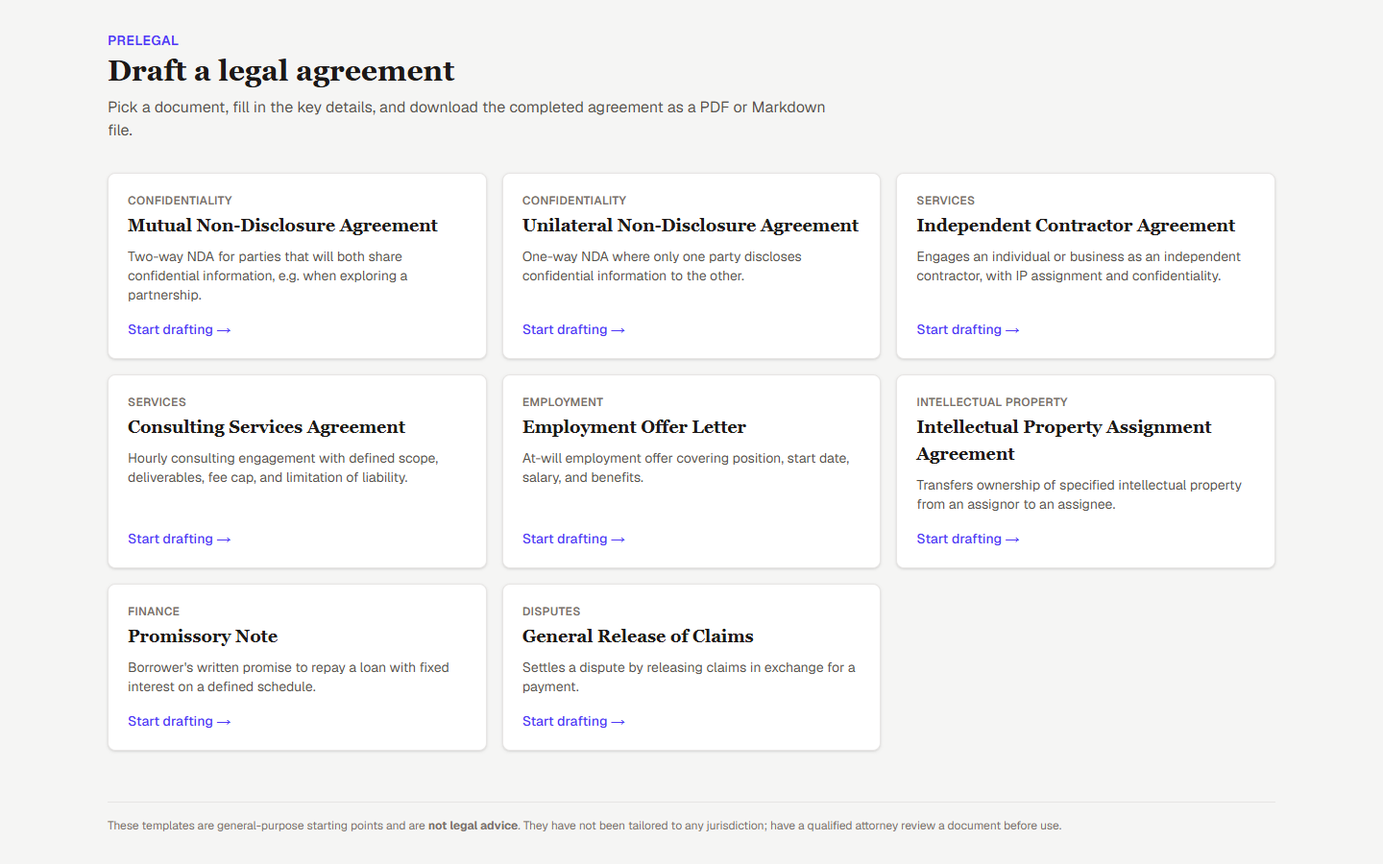
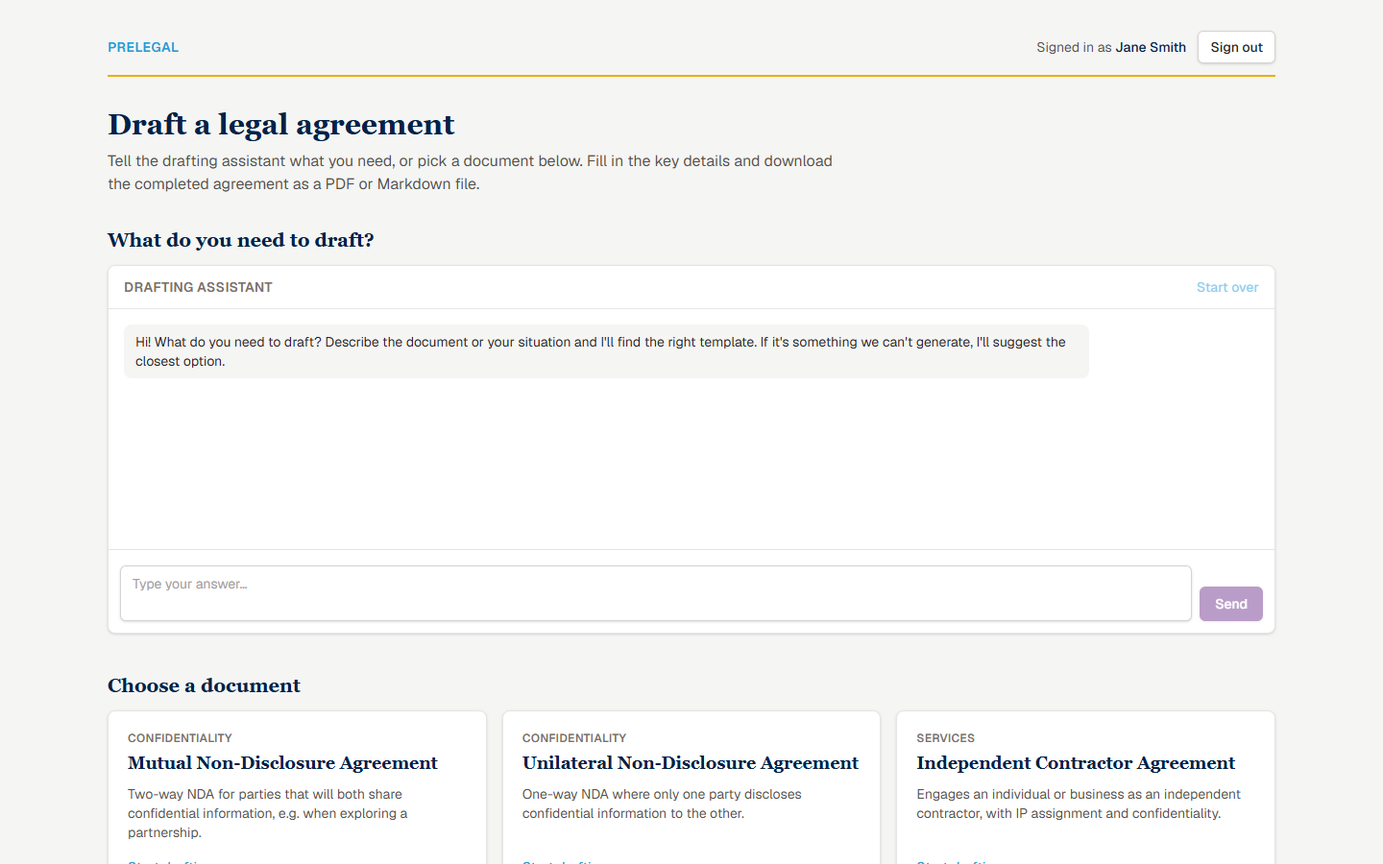
PL-8: Review fixes verified and documentation
- Docs: README (AI chat for every template, home chat, switching, new
  /api/chat contract, PRELEGAL_CHAT_BUDGET_S, new home screenshot),
  frontend/README (handoff flow, HomeChat, chat.ts API), CLAUDE.md
  (Completed (PL-8), endpoints, env vars, latest update, next steps)
- docs/screenshots/01-home.png retaken with the home chat

The previous commit (marked WIP) holds the PL-8 code and the review
fixes: budget-aware retries in chat._ask, fromHome kept in storage,
previous document saved with the AI's answer on a switch, home-chat
hint when there is no form, shared useChatAvailability, chat_budget_s
validated below 60 s, prompt helpers and an explicit Entry.

diff --git a/CLAUDE.md b/CLAUDE.md
@@ -3,12 +3,12 @@
 ## Overview
 
 This is a SaaS product to allow users to draft legal agreements based on templates.
-The user can carry out AI chat in order to establish what document they want and how to fill in the fields. Today the AI chat fills in the Mutual NDA (PL-7); the other templates use a form, and choosing the document type by chat comes with PL-8.
+The user can carry out AI chat in order to establish what document they want and how to fill in the fields. The home page chat picks the document, or explains it can't be generated and offers the closest one. Each template page's chat fills that document in and can switch to another one (PL-7, PL-8). The form is the fallback.
 The target document set is the CommonPaper catalog in the root `catalog.json`, included here:
 
 @catalog.json
 
-The current implementation is the V1 technical foundation (PL-6) plus AI chat for the Mutual NDA (PL-7): a creator for the templates in `data/templates/catalog.json` (Next.js static export) served by a FastAPI backend with a temporary SQLite database, packaged in Docker, behind a fake sign-in. The Mutual NDA is filled in by chatting with an AI assistant (OpenAI via LiteLLM); the other templates use a form. There is no real authentication yet — see Implementation Status below.
+The current implementation is the V1 technical foundation (PL-6) plus AI chat for every template (PL-7, PL-8): a creator for the 8 templates in `data/templates/catalog.json` (Next.js static export) served by a FastAPI backend with a temporary SQLite database, packaged in Docker, behind a fake sign-in. Documents are chosen and filled in by chatting with an AI assistant (OpenAI via LiteLLM); without a backend the form takes over. There is no real authentication yet — see Implementation Status below.
 
 Note: the CommonPaper template files listed in the root `catalog.json` (e.g. `Mutual-NDA.md`) are not in the repo yet. The app uses its own dataset in `data/templates/` (8 templates with its own `catalog.json` and `catalog.schema.json`); the frontend reads it at build time.
 
@@ -42,14 +42,15 @@ OPENAI_API_KEY=your_openai_api_key
 OPENAI_MODEL=gpt-4.1-mini
 ```
 
-The start scripts pass `.env` to the container at run time (`--env-file`); it is excluded from the Docker build context and never baked into the image. `backend/app/llm.py` reads `OPENAI_MODEL` at call time; LiteLLM reads `OPENAI_API_KEY`. Without a key the chat returns `llm_not_configured` and the UI offers the form. For a local backend outside Docker, load the file with `uv run --env-file ../.env ...`.
+The start scripts pass `.env` to the container at run time (`--env-file`); it is excluded from the Docker build context and never baked into the image. `backend/app/llm.py` reads `OPENAI_MODEL` at call time; LiteLLM reads `OPENAI_API_KEY`. Without a key the chat returns `llm_not_configured`: a template page offers the form, the home chat points to the list of documents. For a local backend outside Docker, load the file with `uv run --env-file ../.env ...`.
 
 Optional backend/script variables (defaults are fine for Docker):
 - `PRELEGAL_PORT` - host port used by the start scripts (default `8000`)
 - `PRELEGAL_DB_PATH` - SQLite file (default `prelegal.db`; `/tmp/prelegal.db` in the container)
 - `PRELEGAL_STATIC_DIR` - frontend export served at `/` (unset = API only; `/app/static` in the container)
 - `PRELEGAL_TEMPLATES_DIR` - template catalog the chat builds its prompt and schema from (default: repo `data/templates`; `/app/data/templates` in the container)
-- `PRELEGAL_LLM_TIMEOUT_S`, `PRELEGAL_LLM_MAX_RETRIES` - per-attempt timeout (default `20`) and OpenAI client retries (default `1`)
+- `PRELEGAL_LLM_TIMEOUT_S`, `PRELEGAL_LLM_MAX_RETRIES` - per-attempt timeout (default `20`) and retries after a failed attempt (default `1`; the chat retries itself within its budget, the OpenAI client doesn't)
+- `PRELEGAL_CHAT_BUDGET_S` - total time for one `/api/chat` request, which may make two LLM calls (default `50`; must be below the frontend's 60 s timeout, enforced by validation)
 - `LITELLM_LOCAL_MODEL_COST_MAP` - `True` (set in `llm.py` and the image) so LiteLLM doesn't fetch its model map at import
 
 ## Technical design
@@ -113,11 +114,11 @@ Ticket numbers match the PL project in Jira.
 - Fake sign-in: `/login/` (name + email, no password) → `POST /api/session` upserts the user; the frontend keeps the user in `localStorage` (`useSession` via `useSyncExternalStore`); app pages are in the `(app)` route group behind client-side `RequireSession`; header shows the user and Sign out. Without a backend (Vercel, `npm run dev`) sign-in is device-only
 - Palette applied as Tailwind tokens `brand-yellow`, `brand-blue`, `brand-purple`, `brand-navy`, `brand-gray`
 - Start/stop scripts: `start-unix.sh`/`stop-unix.sh` hold the logic, mac/linux scripts wrap them; Windows `.ps1`; `PRELEGAL_PORT` overrides port 8000
-- Tests: pytest (`cd backend && uv run pytest`) for API, DB reset, concurrent sign-ins and static serving; Vitest (`cd frontend && npm test`) for `fill-template.ts`, `api-client.ts` and `session.ts` (30 and 53 tests at PL-6; current totals under PL-7)
+- Tests: pytest (`cd backend && uv run pytest`) for API, DB reset, concurrent sign-ins and static serving; Vitest (`cd frontend && npm test`) for `fill-template.ts`, `api-client.ts` and `session.ts` (30 and 53 tests at PL-6; current totals under PL-8)
 
 ### Completed (PL-7) — Add AI Chat but still just Mutual NDA
 - **Endpoint:** `POST /api/chat` is stateless. The client sends `{template_id, messages, values}` and gets `{reply, values, complete}`.
-  - Only `mutual-nda` is supported (`CHAT_TEMPLATE_IDS` in `backend/app/chat.py` and `frontend/src/lib/chat.ts`).
+  - At PL-7 only `mutual-nda` was supported (a `CHAT_TEMPLATE_IDS` gate, removed in PL-8).
 - **Backend modules:**
   - `templates.py` loads `catalog.json`.
   - `llm.py` holds `LiteLlmClient`: `completion(model=openai/<OPENAI_MODEL>, response_format=<Pydantic>, timeout, max_retries)`, then `model_validate_json`.
@@ -140,7 +141,42 @@ Ticket numbers match the PL project in Jira.
 - **Tests:** pytest 103 (chat schema and strict-mode compatibility, normalisation, prompt, LLM error mapping, `/api/chat`); Vitest 89 (`chat.ts`, `api-client.ts`).
 - **Verified:** a browser end-to-end run with real OpenAI completes the NDA in two messages.
 
-### To do (PL-8) — Expand to all supported legal document types
+### Completed (PL-8) — Expand to all supported legal document types
+- **Scope:** all 8 templates in `data/templates`. Importing the CommonPaper templates in the root `catalog.json` would be a separate ticket: their cover pages are DOCX-only, they use HTML spans, and they are up to 45 KB.
+- **Endpoint:** `POST /api/chat` takes `{template_id?, messages, values}` and returns `{reply, template_id, values, complete}`.
+  - With no `template_id`, the request is a selection turn.
+  - A response `template_id` that differs from the request's means the AI chose or switched documents, and the client opens that page.
+  - An unknown non-null id returns 404 `unknown_template`.
+- **`chat.py`, two kinds of structured-output turn:**
+  - **Selection:** `selection_model` with `template_id: Literal[ids] | None`. Unsupported requests get an explanation and the closest document (or the list), and `template_id` stays null until the user agrees.
+  - **Drafting:** `turn_model(template, switch_ids)` adds `switch_to: Literal[other ids] | None`, set only after the user confirms.
+  - When a document is chosen or switched to, `_enter` runs its first drafting turn in the same request. Defaults are seeded and same-key valid values are carried over; on a switch the previous values go to the model as JSON data so it can map roles. Only one switch per request.
+  - If `_enter` fails or less than 8 s is left, the user still lands on the document with a fixed reply.
+- **Generic prompt:**
+  - party roles come from field prefixes (`party_roles`, mirrors `groupFields`);
+  - each field shows where its value lands (`FieldDef.usage`, derived from the template body by `templates.field_usages`, e.g. 'a ___ with its principal address at');
+  - format hints for money and percent;
+  - select options are an enum in the schema.
+- **Normalisation:** select values map case-insensitively to the canonical option, percent becomes `5%`, and money must contain a digit.
+- **Time budget:** `Budget` splits `chat_budget_s` (50 s) between calls and attempts. `_ask` retries retryable failures itself (the OpenAI client gets `max_retries=0`), so a provider `Retry-After` can't outlast the client's 60 s.
+- **Frontend:**
+  - `HomeChat.tsx`: the home chat, hidden without a backend.
+  - `ChatPanel`: `templateId: string | null` and `onNavigate`; it stays "Thinking…" until the page changes.
+  - `DocumentBuilder`: chat on every template; `openDocument` on a switch saves the AI's answer to the old document too.
+  - `lib/chat.ts`: `planHandoff` (pure), `HOME_CHAT` storage target, and `fromHome`, which keeps the home greeting.
+  - `useChatAvailability`: the shared `/api/health` probe.
+  - The template page renders `<DocumentBuilder key={template.id}>`.
+- **Tests:**
+  - pytest 186: strict schemas for every template, selection, entering, switching, fallbacks, retries within the budget, normalisation, prompts, usages, config validation.
+  - Vitest 94: handoff, storage, home chat client.
+- **Verified with real OpenAI (gpt-4.1-mini)** in browser end-to-end runs:
+  - "lease" is explained on the home page;
+  - a loan request opens the Promissory Note with $5,000 / 4% / the lender filled in;
+  - the note is complete after one more message;
+  - switching to a General Release asks for confirmation first, then carries over the governing law;
+  - the home greeting survives a reload;
+  - the PL-7 NDA flow still works;
+  - the no-backend fallback works.
 
 ### To do (PL-9) — Support multiple users & final polish
 - Real sign up / sign in (users table) and per-user documents
@@ -150,13 +186,14 @@ Ticket numbers match the PL project in Jira.
 ### API Endpoints
 - `GET /api/health` - Health check
 - `POST /api/session` - Fake sign-in: upserts `{name, email}` into `users` and returns `{id, name, email}` (no authentication)
-- `POST /api/chat` - One AI chat turn (Mutual NDA only): `{template_id, messages, values}` → `{reply, values, complete}`; errors `{"detail": {code, message, retryable}}` (no auth or rate limit until PL-9)
+- `POST /api/chat` - One AI chat turn: `{template_id?, messages, values}` → `{reply, template_id, values, complete}`. Omit `template_id` to let the AI choose the document; a different response `template_id` means chosen or switched. Errors are `{"detail": {code, message, retryable}}` (no auth or rate limit until PL-9)
 - `GET /api/docs`, `GET /api/openapi.json` - API docs
 
 ## Latest update (2026-11-24)
 
 - **PL-6 done**: merged in PR #9 (`bae9788`); Jira status Listo.
 - **PL-7 done**: AI chat for the Mutual NDA (see Completed (PL-7)), merged to `main` in PR #11 (`1cc1142`); Jira status Listo. The CLAUDE.md update from PR #10 was merged with it. Branches `feature/PL-7-ai-chat-mutual-nda` and `docs/claude-md-status` are kept.
+- **PL-8 implemented** on `feature/PL-8-all-document-types` (see Completed (PL-8)); PR pending merge.
 - **Verified for PL-7**:
   - backend and frontend tests, lint, type-check and builds pass;
   - the Docker image runs healthy as a non-root user;
@@ -170,4 +207,6 @@ Ticket numbers match the PL project in Jira.
   - Locally, port 8000 is often taken by another container (`pm-mvp-api`); use `PRELEGAL_PORT=8001`.
   - pytest prints a Starlette deprecation warning about `httpx`; the fix is to switch the dev dependency to `httpx2`.
   - `/api/chat` is unauthenticated (PL-9).
-- **Next**: PL-8 (all document types via chat). Add a per-template chat flag or open `CHAT_TEMPLATE_IDS`, and let the AI choose the template. Known follow-ups from the PL-7 review, left for later: values the AI sends that are too long are dropped without telling the model, and `CHAT_TEMPLATE_IDS` is listed in both the backend and the frontend.
+- **Next**: PL-9 (real accounts and saved documents per user; also put auth and a rate limit on `/api/chat`). Known follow-ups:
+  - values the AI sends that are too long are dropped without telling the model;
+  - the README screenshots other than the home page still show the form on the static site.

diff --git a/frontend/README.md b/frontend/README.md
@@ -1,13 +1,13 @@
 # PreLegal frontend
 
-Next.js app for PreLegal: a **document creator for every template in the catalog** (PL-3, PL-4). The user picks a template, fills it in, sees a live preview of the agreement with their details filled in, and downloads the completed document as **PDF** or **Markdown**. The Mutual NDA is filled in through a chat with an **AI drafting assistant** (PL-7); the other templates use a form.
+Next.js app for PreLegal: a **document creator for every template in the catalog** (PL-3, PL-4). The user picks a template, fills it in, sees a live preview of the agreement with their details filled in, and downloads the completed document as **PDF** or **Markdown**. Every template is filled in through a chat with an **AI drafting assistant** (PL-7, PL-8), which can also pick the document from the home page; the form is the fallback.
 
 It is built as a **static export** (`output: "export"` in `next.config.ts`): `npm run build` writes plain HTML/JS to `out/`, which the FastAPI backend serves at <http://localhost:8000> (PL-6) and Vercel hosts as a static site.
 
 | Route | Page |
 | --- | --- |
 | `/login/` | Sign-in screen (fake sign-in: name + email, no password) |
-| `/` | List of all templates in `data/templates/catalog.json` (signed-in users) |
+| `/` | The home chat ("What do you need to draft?", when a backend answers) and the list of all templates in `data/templates/catalog.json` (signed-in users) |
 | `/templates/<id>/` | Creator for one template, e.g. `/templates/mutual-nda/` (signed-in users) |
 
 URLs end in `/` (`trailingSlash: true`), so each page is exported as `route/index.html`; paths without the slash redirect.
@@ -22,7 +22,7 @@ npm install
 npm run dev     # http://localhost:3000
 ```
 
-Without the backend, sign-in still works but is kept on this device only, and the Mutual NDA shows the form instead of the AI chat (see below).
+Without the backend, sign-in still works but is kept on this device only, the home page shows only the list of templates, and every template shows the form instead of the AI chat (see below).
 
 | Script | Purpose |
 | --- | --- |
@@ -40,28 +40,30 @@ Without the backend, sign-in still works but is kept on this device only, and th
   - `textarea` values (scope, deliverables, schedules) keep their line breaks; other multi-line values (addresses) are joined with commas;
   - dates are formatted as e.g. "November 23, 2026"; integer fields must be whole numbers ≥ 0;
   - blank or invalid fields render as highlighted labels in the preview.
-- **UI** (`src/components/DocumentBuilder.tsx`) owns the field values, picks the editor (`ChatPanel` for the AI chat, `FormEditor` for the form) and re-renders the preview with `react-markdown` + `remark-gfm` + `remark-breaks` (so line-by-line blocks like addresses and signature lines render as written).
+- **UI** (`src/components/DocumentBuilder.tsx`) owns the field values, picks the editor (`ChatPanel` for the AI chat, `FormEditor` for the form), hands the conversation over when the AI switches documents, and re-renders the preview with `react-markdown` + `remark-gfm` + `remark-breaks` (so line-by-line blocks like addresses and signature lines render as written).
 - **Downloads** are enabled once every field is complete and valid:
   - *Markdown*: the filled document as a `.md` file.
   - *PDF*: opens the browser's print dialog with print styles that show only the document; choose **Save as PDF**. The suggested file name is e.g. `Mutual-Non-Disclosure-Agreement_Acme-Inc_Globex-LLC`.
 
-## AI chat (PL-7)
+## AI chat (PL-7, PL-8)
 
-The Mutual NDA page replaces the form with a freeform chat: the assistant asks about the agreement, the user answers in their own words, and the preview fills in as the AI extracts the field values. All AI calls go through the backend (`POST /api/chat`, see the [root README](../README.md)); no key or model call ever happens in the browser.
+Every template page replaces the form with a freeform chat: the assistant asks about the agreement, the user answers in their own words, and the preview fills in as the AI extracts the field values. The home page has a chat too, where the assistant works out which document the user needs. All AI calls go through the backend (`POST /api/chat`, see the [root README](../README.md)); no key or model call ever happens in the browser.
 
+- **Choosing and switching documents.** A chat response carries the `template_id` the conversation is now about. When it differs from the current page's (the home chat picked a document, or the user confirmed a switch on a document page), `ChatPanel` calls `onNavigate`. The caller saves the conversation (ending with the AI's reply) and the values for the new document with `planHandoff`, then `router.push`es to `/templates/<id>/`. The template page keys `DocumentBuilder` by id, so the new page starts from that saved state.
 - `src/lib/chat.ts`: the chat client.
-  - `sendChat` posts `{template_id, messages, values}` with a 60 s timeout and sends the latest 30 messages.
-  - `isChatAvailable` probes `/api/health`.
+  - `sendChat` posts `{template_id?, messages, values}` and sends the latest `MAX_SENT_MESSAGES` (30). The home chat omits `template_id`. Its 60 s timeout sits above the backend's per-request budget (`PRELEGAL_CHAT_BUDGET_S`, 50 s), so the server's answer or error always arrives first.
+  - `isChatAvailable` probes `/api/health` (used by `useChatAvailability`).
   - `chatFailure` turns errors into user-facing messages.
-  - The conversation and field values persist in `sessionStorage`, per user and template, so they survive a reload and are cleared when the tab closes.
-  - `CHAT_TEMPLATE_IDS` lists the templates that get the chat (only `mutual-nda` for now).
+  - `greeting(name?)` is the opening message: for a document, or (no name) for the home chat.
+  - The conversation and field values persist in `sessionStorage`, per user and template (the home chat uses the `HOME_CHAT` target), so they survive a reload and are cleared when the tab closes. `fromHome` marks a conversation that started on the home page, which keeps the home greeting.
+- `src/components/HomeChat.tsx`: the home page chat. It renders nothing without a backend. When the AI picks a document it hands the conversation over and clears the home chat.
 - `src/components/ChatPanel.tsx`: the chat UI.
   - Enter sends and Shift+Enter starts a new line.
   - **Start over** clears the chat and the document.
   - **Retry** appears for retryable errors, and for a message left unanswered by a reload.
-  - **Use the form instead** appears for errors that a retry won't fix, such as no API key configured.
-- `DocumentBuilder` checks `/api/health` once. If no backend answers (the Vercel deployment, `npm run dev`), it shows a notice and the form. A failure later in the conversation shows as an error in the chat; it does not switch to the form.
-- The backend validates every AI-extracted value (dates `YYYY-MM-DD`, whole numbers, known fields only) and returns it unescaped; `fillTemplate` escapes it as usual. The download buttons stay gated by `incompleteFields`.
+  - **Use the form instead** appears for errors that a retry won't fix, such as no API key configured. On the home page, which has no form, it points to the list of documents instead.
+- `DocumentBuilder` checks `/api/health` once (`useChatAvailability`). If no backend answers (the Vercel deployment, `npm run dev`), it shows a notice and the form. A failure later in the conversation shows as an error in the chat; it does not switch to the form.
+- The backend validates every AI-extracted value (dates `YYYY-MM-DD`, whole numbers, money with a digit, percentages as `5%`, select values mapped to their exact option, known fields only) and returns it unescaped; `fillTemplate` escapes it as usual. The download buttons stay gated by `incompleteFields`.
 - `src/lib/api-client.ts`: a response with a coded error (`{"detail": {"code", "message", "retryable"}}`) is an `ApiError` whatever its status. For example, a 504 when OpenAI timed out is not treated as "no backend".
 
 ## Sign-in (PL-6)

diff --git a/README.md b/README.md
@@ -3,7 +3,7 @@ A platform for drafting common legal agreements
 
 **🌐 Live site: <https://prelegal-blue.vercel.app>**
 
-PreLegal is a generic document creator: pick any template, fill it in, watch the agreement update live, and download the completed document as PDF or Markdown. The **Mutual NDA** is filled in by chatting with an AI drafting assistant (PL-7); the other templates use a form. The forms and documents come straight from the template dataset in [`data/templates`](data/templates), so adding a template to the catalog adds it to the site.
+PreLegal is a generic document creator: pick any template, fill it in, watch the agreement update live, and download the completed document as PDF or Markdown. Tell the **AI drafting assistant** what you need: it picks the right document (or explains it can't generate it and offers the closest one), then fills it in as you answer. The form is still there as a fallback. The forms and documents come straight from the template dataset in [`data/templates`](data/templates), so adding a template to the catalog adds it to the site.
 
 > 🚧 **Status: In progress.** This project is under active development and is expected to be completed within 1 week (target: November 28, 2026).
 
@@ -24,11 +24,11 @@ PreLegal is a generic document creator: pick any template, fill it in, watch the
 
 ## Screenshots
 
-Captured from the live site (<https://prelegal-blue.vercel.app>) on November 23, 2026, so the frontend stays documented even if the deployment goes offline. All names, companies and addresses are fictional.
+Captured on November 23–24, 2026, so the frontend stays documented even if the deployment goes offline. All names, companies and addresses are fictional. The home page shows the AI chat (PL-8, running with the backend); the other screenshots were taken from the static Vercel site, where there is no backend, so they show the form that the chat replaces when a backend is available.
 
-**Home: every template in the catalog**
+**Home: ask the drafting assistant, or pick any template in the catalog**
 
-![Home page listing all templates](docs/screenshots/01-home.png)
+![Home page with the AI chat above the list of templates](docs/screenshots/01-home.png)
 
 **Empty form: fields still to complete are highlighted in the live preview, and downloads stay disabled**
 
@@ -62,8 +62,8 @@ The start script builds the image, (re)starts the `prelegal` container and waits
 
 - **Sign-in** is a placeholder for now (PL-6): enter any name and email, no password. Real accounts arrive with PL-9.
 - **The database is temporary**: SQLite inside the container, recreated from scratch every time the container starts.
-- A `.env` file in the repository root, if present, is passed to the container at run time (it is never copied into the image). The AI chat needs `OPENAI_API_KEY` there; `OPENAI_MODEL` is optional (default `gpt-4.1-mini`). Without a key the app still runs, the chat reports it isn't configured and offers the form.
-- **AI chat (Mutual NDA)**: the backend calls OpenAI through LiteLLM with Structured Outputs; every value the AI extracts is validated on the server before it reaches the document. If the backend isn't reachable (e.g. the static Vercel site), the page falls back to the form. `/api/chat` has no authentication or rate limit yet (fake sign-in until PL-9), so anyone who can reach the server can spend OpenAI credits.
+- A `.env` file in the repository root, if present, is passed to the container at run time (it is never copied into the image). The AI chat needs `OPENAI_API_KEY` there; `OPENAI_MODEL` is optional (default `gpt-4.1-mini`). Without a key the app still runs: the chat reports it isn't configured, and offers the form on a document page (on the home page, the list of documents below it).
+- **AI chat (every template)**: on the home page, describe what you need and the assistant picks the document. If you ask for something PreLegal can't generate (e.g. a lease), it says so and offers the closest document, or lists what it can draft. It then opens the document's page with the conversation so far and keeps asking for what's missing. Mid-conversation you can ask for a different document: once you confirm, it switches and carries over the details that still apply (dates, governing law…). The backend calls OpenAI through LiteLLM with Structured Outputs; every value the AI extracts is validated on the server before it reaches the document. If the backend isn't reachable (e.g. the static Vercel site), the page falls back to the form. `/api/chat` has no authentication or rate limit yet (fake sign-in until PL-9), so anyone who can reach the server can spend OpenAI credits.
 
 ### Architecture
 
@@ -79,7 +79,7 @@ Docker image
 | --- | --- |
 | `GET /api/health` | Health check |
 | `POST /api/session` | Fake sign-in: records `{name, email}` in the `users` table and returns the user |
-| `POST /api/chat` | One AI chat turn (Mutual NDA only): `{template_id, messages, values}` → `{reply, values, complete}`. Errors return `{"detail": {"code", "message", "retryable"}}` |
+| `POST /api/chat` | One AI chat turn: `{template_id?, messages, values}` → `{reply, template_id, values, complete}`. Without `template_id` the AI picks the document; a response `template_id` that differs from the request's means the AI chose or switched documents. Errors return `{"detail": {"code", "message", "retryable"}}` |
 | `GET /api/docs` | Interactive API docs |
 
 ### Development
@@ -110,6 +110,7 @@ npm test && npm run lint && npm run build
 | `PRELEGAL_STATIC_DIR` | unset (`/app/static` in the image) | Frontend export served at `/`; unset serves the API only |
 | `PRELEGAL_TEMPLATES_DIR` | repo `data/templates` (`/app/data/templates` in the image) | Template catalog the chat builds its prompt and schema from |
 | `PRELEGAL_LLM_TIMEOUT_S` / `PRELEGAL_LLM_MAX_RETRIES` | `20` / `1` | Per-attempt timeout and retries for OpenAI calls |
+| `PRELEGAL_CHAT_BUDGET_S` | `50` | Total time for one chat request, which may make two OpenAI calls (choosing a document, then its first turn). Must stay below the frontend's 60 s timeout (enforced) |
 | `LITELLM_LOCAL_MODEL_COST_MAP` | `True` | Use LiteLLM's bundled model map instead of fetching it at startup |
 
 The Docker image is about 1.1 GB, mostly LiteLLM and its dependencies.
@@ -119,9 +120,9 @@ The Docker image is about 1.1 GB, mostly LiteLLM and its dependencies.
 | Path | Description |
 | --- | --- |
 | [`backend`](backend) | FastAPI app (uv project): the API, the temporary SQLite database, and serving the frontend build |
-| [`docs/screenshots`](docs/screenshots) | Screenshots of the live site and a sample PDF |
+| [`docs/screenshots`](docs/screenshots) | Screenshots of the app and a sample PDF |
 | [`data/templates`](data/templates) | Dataset of legal document templates and their field catalog |
-| [`frontend`](frontend) | Next.js app (static export): sign-in, the AI chat for the Mutual NDA and the form-based creator for the other templates. See [frontend/README.md](frontend/README.md) |
+| [`frontend`](frontend) | Next.js app (static export): sign-in, the AI chat (home page and every template) with the form as fallback. See [frontend/README.md](frontend/README.md) |
 | [`scripts`](scripts) | Start/stop scripts for macOS, Linux and Windows, and `validate-templates.mjs` |
 | [`Dockerfile`](Dockerfile) | Multi-stage build of the whole app |
 
